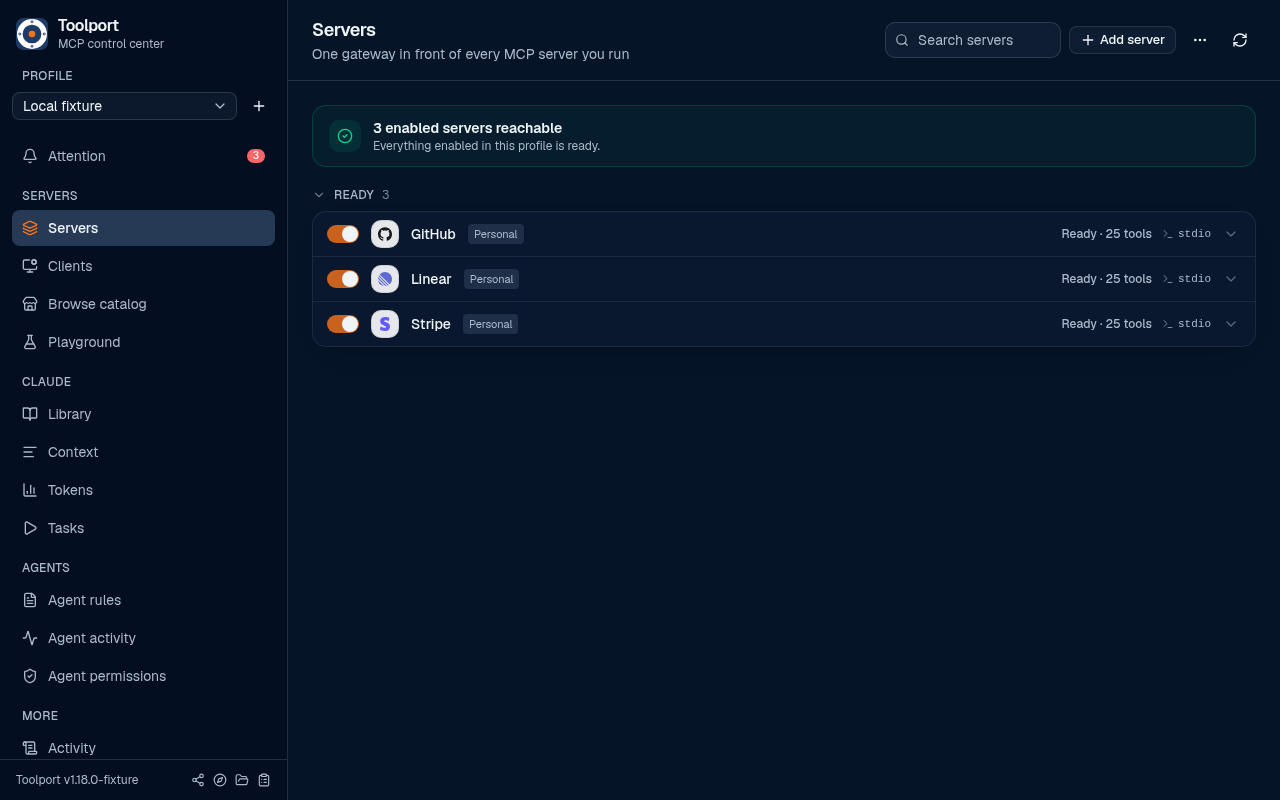
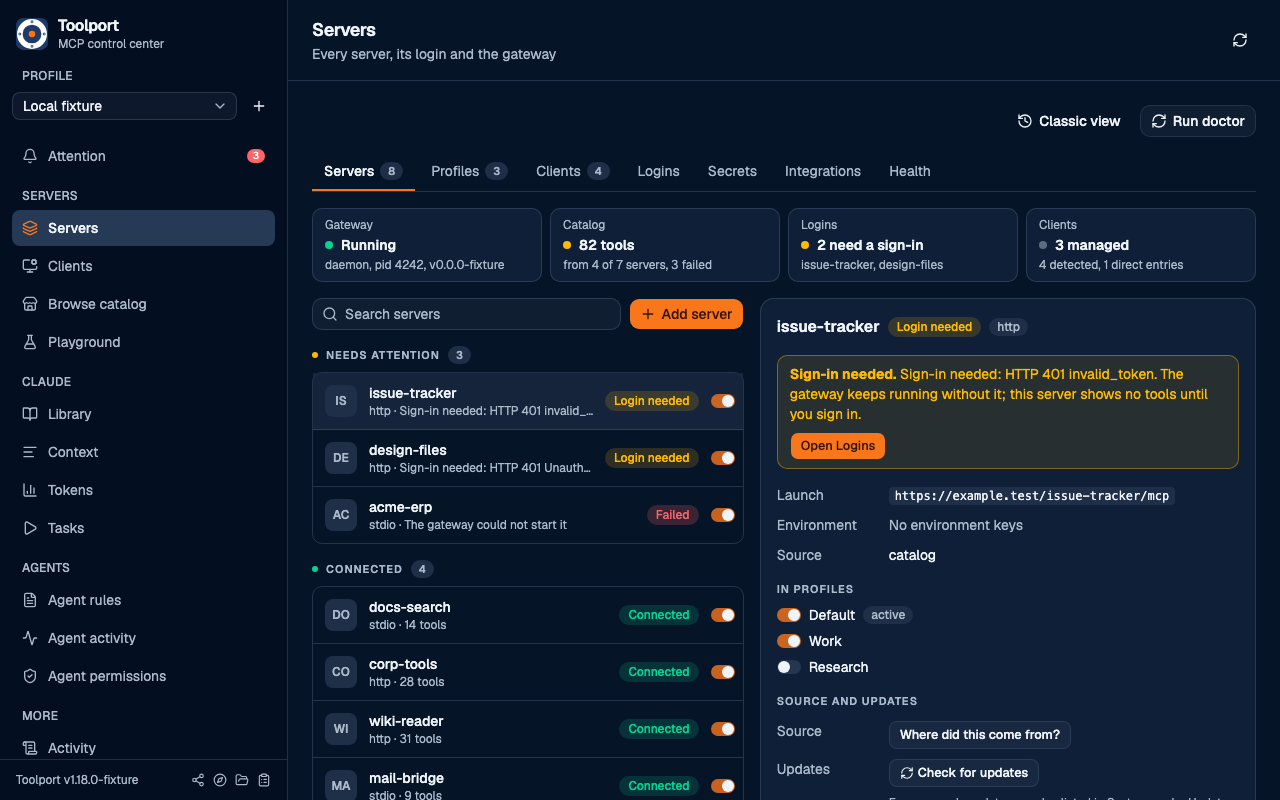
[FIX] gui: open on the full Servers screen, not the upstream page
The app started on the upstream servers page while the sidebar already
marked Servers as active, so the first load showed the old list until
someone clicked through. It now starts on the full screen with its
live state; the old page stays one click away as Classic view.

App takes an initialView so the upstream tests keep testing that page.

diff --git a/src/App.probe.test.tsx b/src/App.probe.test.tsx
@@ -125,7 +125,7 @@ describe("App onboarding probe wiring", () => {
     const inFlight = deferred<ProbeResult[]>();
     probeServers.mockReturnValueOnce(inFlight.promise).mockResolvedValue([]);
 
-    render(<App />);
+    render(<App initialView="servers" />);
 
     // Fresh install (no servers, no connected clients) opens onboarding, and the
     // initial load has already started a silent health probe that is still pending.
@@ -156,7 +156,7 @@ describe("App onboarding exit (SBS-826)", () => {
   // deliberately does) would send a rules user who skipped Connect back through the
   // whole wizard on the next launch with nothing failing.
   it("marks onboarding done when a rules user leaves for the Rules tab", async () => {
-    render(<App />);
+    render(<App initialView="servers" />);
 
     await waitFor(() => expect(captured.onOpenRules).not.toBeNull());
     expect(localStorage.getItem("toolport.onboarded")).toBeNull();
@@ -174,7 +174,7 @@ describe("App health visibility", () => {
     localStorage.setItem("toolport.onboarded", "1");
     probeServers.mockRejectedValue(new Error("backend unavailable"));
 
-    render(<App />);
+    render(<App initialView="servers" />);
 
     expect(await screen.findByText(/backend didn't respond/i)).toBeInTheDocument();
     await userEvent.click(screen.getByRole("button", { name: "Clients" }));
@@ -202,7 +202,7 @@ describe("App health visibility", () => {
     });
     probeServers.mockResolvedValue([]);
 
-    render(<App />);
+    render(<App initialView="servers" />);
 
     expect(
       await screen.findByRole("button", { name: /checking 1/i }),
@@ -249,7 +249,7 @@ describe("App health visibility", () => {
       .mockResolvedValueOnce(disabledRegistry)
       .mockResolvedValueOnce(enabledRegistry);
 
-    render(<App />);
+    render(<App initialView="servers" />);
 
     expect(await screen.findByRole("button", { name: /ready 1/i })).toBeInTheDocument();
     await userEvent.click(screen.getByLabelText("Toggle Example"));
@@ -308,7 +308,7 @@ describe("App health visibility", () => {
       .mockResolvedValueOnce(disabledRegistry)
       .mockResolvedValueOnce(enabledRegistry);
 
-    render(<App />);
+    render(<App initialView="servers" />);
 
     expect(await screen.findByRole("button", { name: /ready 1/i })).toBeInTheDocument();
     await userEvent.click(screen.getByRole("button", { name: "More actions" }));
@@ -358,7 +358,7 @@ describe("App health visibility", () => {
       ])
       .mockReturnValueOnce(nextProbe.promise);
 
-    render(<App />);
+    render(<App initialView="servers" />);
 
     expect(await screen.findByRole("button", { name: /ready 1/i })).toBeInTheDocument();
     await userEvent.click(screen.getByRole("button", { name: "Switch profile" }));

diff --git a/src/App.tsx b/src/App.tsx
@@ -132,7 +132,7 @@ import { subscribeToTrayApprovals } from "@/lib/trayApprovals";
 /** Above this many servers, "Disable all" asks for confirmation first. */
 const BULK_DISABLE_CONFIRM_MIN = 3;
 
-function App() {
+function App({ initialView = "control" }: { initialView?: View } = {}) {
   const { resolved: resolvedTheme } = useTheme();
   const [registry, setRegistry] = useState<Registry | null>(null);
   const registryRef = useRef<Registry | null>(null);
@@ -148,7 +148,7 @@ function App() {
   const [confirmDisableAll, setConfirmDisableAll] = useState(false);
   const [confirmEnableTeam, setConfirmEnableTeam] = useState<ServerEntry | null>(null);
   const [selectedClientId, setSelectedClientId] = useState<string | null>(null);
-  const [view, setView] = useState<View>("servers");
+  const [view, setView] = useState<View>(initialView);
   const [activityKey, setActivityKey] = useState(0);
   const [health, setHealth] = useState<Record<string, ProbeResult>>({});
   const [probing, setProbing] = useState(false);

diff --git a/src/App.teamEnableReview.test.tsx b/src/App.teamEnableReview.test.tsx
@@ -95,7 +95,7 @@ describe("team enable review dialog", () => {
     "stays open showing the new command when the definition changes mid-review",
     { timeout: 20000 },
     async () => {
-      render(<App />);
+      render(<App initialView="servers" />);
       // The (only) server is off, so it sits in the collapsed Disabled group.
       await userEvent.click(
         await screen.findByRole("button", { name: /Disabled/ }, { timeout: 3000 }),
